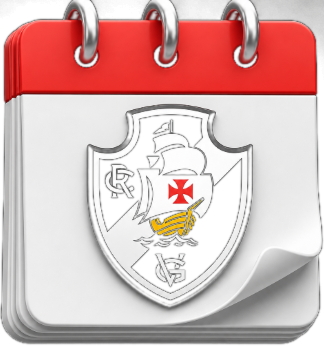
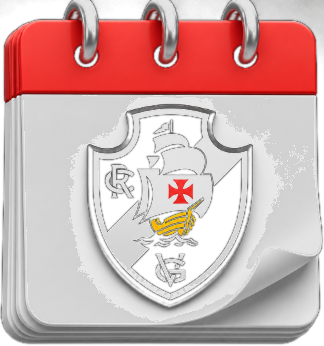
MVP/quem faz gol: restaura as fotos (confirmado que não eram o problema) e adiciona cache real de otimização — a lista de ~29 jogadores só é montada uma vez (ou quando o elenco muda), não toda vez que o seletor abre
Baixar App: remove o efeito 'girando' (usava uma técnica de máscara que pode não funcionar bem em todo aparelho) e troca por um brilho pulsante simples na borda, mais confiável em qualquer navegador

Escudo do calendário no tema claro: em vez de um fundo escuro atrás (ficava evidente/feio), editei a própria imagem — escurece só um pouco os pixels quase-brancos (90% do valor original), o suficiente pra nunca mais sumir contra fundo branco, mas sem alterar visualmente o desenho do escudo

diff --git a/index.html b/index.html
@@ -132,11 +132,8 @@ console.log('Firebase conectado ao Vasbobo ✓');
   .sino-notif.ativado{color:var(--verde);animation:none!important}
   .sino-notif.balancando{animation:sinoBalanca 1.7s ease-in-out infinite}
   @keyframes sinoBalanca{0%,100%{transform:rotate(0)}12%{transform:rotate(-16deg)}24%{transform:rotate(13deg)}36%{transform:rotate(-11deg)}48%{transform:rotate(8deg)}60%{transform:rotate(-6deg)}72%{transform:rotate(3deg)}84%{transform:rotate(-1deg)}}
-  #btnInstalarApp::before{content:"";position:absolute;inset:-2px;border-radius:9px;padding:2px;
-    background:conic-gradient(from 0deg,transparent 0%,transparent 70%,#BFE0FF 82%,#FFFFFF 88%,#BFE0FF 94%,transparent 100%);
-    -webkit-mask:linear-gradient(#000 0 0) content-box,linear-gradient(#000 0 0);-webkit-mask-composite:xor;mask-composite:exclude;
-    animation:girarBrilhoApp 2.6s linear infinite;pointer-events:none}
-  @keyframes girarBrilhoApp{to{transform:rotate(360deg)}}
+  #btnInstalarApp{animation:brilhoBordaApp 1.8s ease-in-out infinite}
+  @keyframes brilhoBordaApp{0%,100%{box-shadow:0 0 3px 0 rgba(79,166,240,.35);border-color:var(--azul)}50%{box-shadow:0 0 13px 3px rgba(79,166,240,.9);border-color:#BFE0FF}}
   h1{font-size:clamp(1.7rem,7.5vw,2.6rem);line-height:1;text-shadow:none;width:auto}
   h1 .cruz{color:var(--vermelho);font-size:.75em;vertical-align:.06em;margin-left:4px;display:inline-block;
     animation:balancarCruz 3s ease-in-out infinite}
@@ -196,7 +193,7 @@ console.log('Firebase conectado ao Vasbobo ✓');
     padding:14px 2px 11px;text-decoration:none;color:var(--cinza);font-size:.6rem;font-weight:700;
     text-transform:uppercase;letter-spacing:.01em;font-family:'Inter',sans-serif;position:relative}
   .menu-fixo a .mf-icone{font-size:1.5rem;line-height:1;display:flex;align-items:center;justify-content:center;height:30px}
-  html.tema-claro #mfCalendario .mf-icone{background:#17171B;border-radius:50%;padding:3px}
+  
   .menu-fixo a .mf-icone img{width:32px;height:32px;object-fit:contain;display:block}
   .menu-fixo a.ativo{color:var(--branco)}
   .menu-fixo a.ativo::after{content:"";position:absolute;bottom:4px;left:50%;transform:translateX(-50%);width:18px;height:3px;border-radius:99px;background:var(--azul)}
@@ -3637,22 +3634,37 @@ function selectJogadores(idSel,valorAtual,incluirSemGol,incluirTecnico){
 function botaoEscolherJogador(idCampo,valorAtual,incluirSemGol,incluirTecnico){
   const jSel=valorAtual&&valorAtual!==SEM_GOL?jogadorPorId(valorAtual):null;
   const texto=valorAtual===SEM_GOL?'Vasco não marca 😢':(jSel?((jSel.num?jSel.num+' · ':'')+jSel.nome):'— escolher —');
+  const fotoTxt=jSel?fotoJogador(jSel.id,26):'';
   return '<input type="hidden" id="'+idCampo+'" value="'+esc(valorAtual||'')+'">'+
     '<button type="button" class="btn fantasma" style="width:100%;display:flex;align-items:center;gap:8px;justify-content:flex-start;text-align:left;padding:9px 12px" '+
     'onclick="abrirEscolherJogador(\''+idCampo+'\','+(incluirSemGol?'true':'false')+','+(incluirTecnico?'true':'false')+')" id="btnEsc_'+idCampo+'">'+
-    '<span id="txtEsc_'+idCampo+'">'+esc(texto)+'</span></button>';
+    '<span id="fotoEsc_'+idCampo+'">'+fotoTxt+'</span><span id="txtEsc_'+idCampo+'">'+esc(texto)+'</span></button>';
 }
-function abrirEscolherJogador(idCampo,incluirSemGol,incluirTecnico){
-  window._escolherJogadorAlvo=idCampo;
+/* cache do HTML da lista do seletor — monta os ~29 botões (com foto) só na primeira vez, ou
+   quando o elenco mudar; nas próximas aberturas, é só reaproveitar a string pronta */
+let _cacheEscolherJogador={comTecnico:null,semTecnico:null,semGol:null,versaoElenco:null};
+function htmlListaEscolherJogador(incluirTecnico,incluirSemGol){
+  const versaoAtual=(dados.jogadores||[]).length+'_'+(dados.jogadores||[]).map(p=>p.id+p.ativo).join('');
+  if(_cacheEscolherJogador.versaoElenco!==versaoAtual){
+    _cacheEscolherJogador={versaoElenco:versaoAtual,comTecnico:null,semTecnico:null};
+  }
+  const chave=incluirTecnico?'comTecnico':'semTecnico';
+  if(_cacheEscolherJogador[chave])return _cacheEscolherJogador[chave];
   let html='';
-  if(incluirSemGol)html+='<button type="button" class="jogo-item" style="width:100%;margin-bottom:8px" onclick="selecionarJogadorModal(\''+SEM_GOL+'\')"><span class="jogo-nome">Vasco não marca 😢</span></button>';
   let posAtual='';
   jogadoresAtivos().filter(p=>incluirTecnico||p.pos!=='Técnico').forEach(p=>{
     if(p.pos!==posAtual){posAtual=p.pos;html+='<div class="pos-titulo" style="margin-top:10px">'+esc(p.pos)+'s</div>';}
     html+='<button type="button" class="jogo-item" style="width:100%;display:flex;align-items:center;gap:10px;margin-bottom:6px" onclick="selecionarJogadorModal(\''+p.id+'\')">'+
-      '<span class="jog-num" style="width:26px;text-align:center;flex:none">'+(p.num||'–')+'</span><span class="jogo-nome" style="font-size:.88rem">'+esc(p.nome)+'</span></button>';
+      fotoJogador(p.id,32)+'<span class="jogo-nome" style="font-size:.88rem">'+(p.num?p.num+' · ':'')+esc(p.nome)+'</span></button>';
   });
-  document.getElementById('corpoEscolherJogador').innerHTML=html||'<div class="vazio">Ninguém no elenco ainda.</div>';
+  _cacheEscolherJogador[chave]=html;
+  return html;
+}
+function abrirEscolherJogador(idCampo,incluirSemGol,incluirTecnico){
+  window._escolherJogadorAlvo=idCampo;
+  const semGolHtml=incluirSemGol?'<button type="button" class="jogo-item" style="width:100%;margin-bottom:8px" onclick="selecionarJogadorModal(\''+SEM_GOL+'\')"><span class="jogo-nome">Vasco não marca 😢</span></button>':'';
+  const lista=htmlListaEscolherJogador(incluirTecnico,incluirSemGol);
+  document.getElementById('corpoEscolherJogador').innerHTML=(semGolHtml+lista)||'<div class="vazio">Ninguém no elenco ainda.</div>';
   document.getElementById('modalEscolherJogador').classList.remove('oculto');
 }
 function fecharEscolherJogador(){document.getElementById('modalEscolherJogador').classList.add('oculto');}
@@ -3662,6 +3674,7 @@ function selecionarJogadorModal(id){
   document.getElementById(idCampo).value=id;
   const jSel=id!==SEM_GOL?jogadorPorId(id):null;
   document.getElementById('txtEsc_'+idCampo).textContent=id===SEM_GOL?'Vasco não marca 😢':(jSel?((jSel.num?jSel.num+' · ':'')+jSel.nome):'— escolher —');
+  document.getElementById('fotoEsc_'+idCampo).innerHTML=jSel?fotoJogador(jSel.id,26):'';
   fecharEscolherJogador();
 }
 

diff --git a/hoje.html b/hoje.html
@@ -267,7 +267,7 @@ body{min-height:100vh;color:var(--branco);font-family:'Inter',sans-serif;-webkit
     padding:14px 2px 11px;text-decoration:none;color:var(--cinza);font-size:.6rem;font-weight:700;
     text-transform:uppercase;letter-spacing:.01em;font-family:'Inter',sans-serif;position:relative}
   .menu-fixo a .mf-icone{font-size:1.5rem;line-height:1;display:flex;align-items:center;justify-content:center;height:30px}
-html.tema-claro #mfCalendario .mf-icone{background:#17171B;border-radius:50%;padding:3px}
+
   .menu-fixo a .mf-icone img{width:32px;height:32px;object-fit:contain;display:block}
   .menu-fixo a.ativo{color:var(--branco)}
   .menu-fixo a.ativo::after{content:"";position:absolute;bottom:4px;left:50%;transform:translateX(-50%);width:18px;height:3px;border-radius:99px;background:var(--azul)}
@@ -275,11 +275,8 @@ html.tema-claro #mfCalendario .mf-icone{background:#17171B;border-radius:50%;pad
   .menu-fixo a .mf-sinal{position:absolute;top:9px;right:calc(50% - 24px);width:8px;height:8px;border-radius:50%;background:var(--vermelho);border:1.5px solid var(--carvao)}
   .bar-teste{max-width:1320px;margin:10px auto 0;padding:0 20px}
   .bar-teste div{background:rgba(217,174,78,.1);border:1px solid var(--ouro);color:var(--ouro);border-radius:9px;padding:8px 14px;font-size:.78rem}
-#btnInstalarApp::before{content:"";position:absolute;inset:-2px;border-radius:9px;padding:2px;
-  background:conic-gradient(from 0deg,transparent 0%,transparent 70%,#BFE0FF 82%,#FFFFFF 88%,#BFE0FF 94%,transparent 100%);
-  -webkit-mask:linear-gradient(#000 0 0) content-box,linear-gradient(#000 0 0);-webkit-mask-composite:xor;mask-composite:exclude;
-  animation:girarBrilhoApp 2.6s linear infinite;pointer-events:none}
-@keyframes girarBrilhoApp{to{transform:rotate(360deg)}}
+#btnInstalarApp{animation:brilhoBordaApp 1.8s ease-in-out infinite}
+@keyframes brilhoBordaApp{0%,100%{box-shadow:0 0 3px 0 rgba(79,166,240,.35);border-color:var(--azul)}50%{box-shadow:0 0 13px 3px rgba(79,166,240,.9);border-color:#BFE0FF}}
 .comp-tabs{display:flex;gap:8px;flex-wrap:wrap}
 .comp-tab{background:rgba(255,255,255,.06);border:1px solid var(--linha);color:var(--branco);border-radius:8px;
   padding:8px 14px;font-size:.78rem;font-weight:700;letter-spacing:.03em;text-transform:uppercase;

diff --git a/galeria.html b/galeria.html
@@ -242,7 +242,7 @@ body{min-height:100vh;color:var(--branco);font-family:'Inter',sans-serif;-webkit
     padding:14px 2px 11px;text-decoration:none;color:var(--cinza);font-size:.6rem;font-weight:700;
     text-transform:uppercase;letter-spacing:.01em;font-family:'Inter',sans-serif;position:relative}
   .menu-fixo a .mf-icone{font-size:1.5rem;line-height:1;display:flex;align-items:center;justify-content:center;height:30px}
-html.tema-claro #mfCalendario .mf-icone{background:#17171B;border-radius:50%;padding:3px}
+
   .menu-fixo a .mf-icone img{width:32px;height:32px;object-fit:contain;display:block}
   .menu-fixo a.ativo{color:var(--branco)}
   .menu-fixo a.ativo::after{content:"";position:absolute;bottom:4px;left:50%;transform:translateX(-50%);width:18px;height:3px;border-radius:99px;background:var(--azul)}
@@ -250,11 +250,8 @@ html.tema-claro #mfCalendario .mf-icone{background:#17171B;border-radius:50%;pad
   .menu-fixo a .mf-sinal{position:absolute;top:9px;right:calc(50% - 24px);width:8px;height:8px;border-radius:50%;background:var(--vermelho);border:1.5px solid var(--carvao)}
   .bar-teste{max-width:1320px;margin:10px auto 0;padding:0 20px}
   .bar-teste div{background:rgba(217,174,78,.1);border:1px solid var(--ouro);color:var(--ouro);border-radius:9px;padding:8px 14px;font-size:.78rem}
-#btnInstalarApp::before{content:"";position:absolute;inset:-2px;border-radius:9px;padding:2px;
-  background:conic-gradient(from 0deg,transparent 0%,transparent 70%,#BFE0FF 82%,#FFFFFF 88%,#BFE0FF 94%,transparent 100%);
-  -webkit-mask:linear-gradient(#000 0 0) content-box,linear-gradient(#000 0 0);-webkit-mask-composite:xor;mask-composite:exclude;
-  animation:girarBrilhoApp 2.6s linear infinite;pointer-events:none}
-@keyframes girarBrilhoApp{to{transform:rotate(360deg)}}
+#btnInstalarApp{animation:brilhoBordaApp 1.8s ease-in-out infinite}
+@keyframes brilhoBordaApp{0%,100%{box-shadow:0 0 3px 0 rgba(79,166,240,.35);border-color:var(--azul)}50%{box-shadow:0 0 13px 3px rgba(79,166,240,.9);border-color:#BFE0FF}}
 .fq-veu{position:fixed;inset:0;background:rgba(0,0,0,.88);display:flex;align-items:center;justify-content:center;padding:20px;z-index:1000}
 .fq-veu.oculto{display:none}
 .fq-modal{background:#0B0B0E;border:1px solid rgba(255,255,255,.16);

diff --git a/ogrupo.html b/ogrupo.html
@@ -275,7 +275,7 @@ body{min-height:100vh;color:var(--branco);font-family:'Inter',sans-serif;-webkit
     padding:14px 2px 11px;text-decoration:none;color:var(--cinza);font-size:.6rem;font-weight:700;
     text-transform:uppercase;letter-spacing:.01em;font-family:'Inter',sans-serif;position:relative}
   .menu-fixo a .mf-icone{font-size:1.5rem;line-height:1;display:flex;align-items:center;justify-content:center;height:30px}
-html.tema-claro #mfCalendario .mf-icone{background:#17171B;border-radius:50%;padding:3px}
+
   .menu-fixo a .mf-icone img{width:32px;height:32px;object-fit:contain;display:block}
   .menu-fixo a.ativo{color:var(--branco)}
   .menu-fixo a.ativo::after{content:"";position:absolute;bottom:4px;left:50%;transform:translateX(-50%);width:18px;height:3px;border-radius:99px;background:var(--azul)}
@@ -283,11 +283,8 @@ html.tema-claro #mfCalendario .mf-icone{background:#17171B;border-radius:50%;pad
   .menu-fixo a .mf-sinal{position:absolute;top:9px;right:calc(50% - 24px);width:8px;height:8px;border-radius:50%;background:var(--vermelho);border:1.5px solid var(--carvao)}
   .bar-teste{max-width:1320px;margin:10px auto 0;padding:0 20px}
   .bar-teste div{background:rgba(217,174,78,.1);border:1px solid var(--ouro);color:var(--ouro);border-radius:9px;padding:8px 14px;font-size:.78rem}
-#btnInstalarApp::before{content:"";position:absolute;inset:-2px;border-radius:9px;padding:2px;
-  background:conic-gradient(from 0deg,transparent 0%,transparent 70%,#BFE0FF 82%,#FFFFFF 88%,#BFE0FF 94%,transparent 100%);
-  -webkit-mask:linear-gradient(#000 0 0) content-box,linear-gradient(#000 0 0);-webkit-mask-composite:xor;mask-composite:exclude;
-  animation:girarBrilhoApp 2.6s linear infinite;pointer-events:none}
-@keyframes girarBrilhoApp{to{transform:rotate(360deg)}}
+#btnInstalarApp{animation:brilhoBordaApp 1.8s ease-in-out infinite}
+@keyframes brilhoBordaApp{0%,100%{box-shadow:0 0 3px 0 rgba(79,166,240,.35);border-color:var(--azul)}50%{box-shadow:0 0 13px 3px rgba(79,166,240,.9);border-color:#BFE0FF}}
 .fq-veu{position:fixed;inset:0;background:rgba(0,0,0,.88);display:flex;align-items:center;justify-content:center;padding:20px;z-index:1000}
 .fq-veu.oculto{display:none}
 .fq-modal{background:#0B0B0E;border:1px solid rgba(255,255,255,.16);

diff --git a/futebol.html b/futebol.html
@@ -232,7 +232,7 @@ body{min-height:100vh;color:var(--branco);font-family:'Inter',sans-serif;-webkit
     padding:14px 2px 11px;text-decoration:none;color:var(--cinza);font-size:.6rem;font-weight:700;
     text-transform:uppercase;letter-spacing:.01em;font-family:'Inter',sans-serif;position:relative}
   .menu-fixo a .mf-icone{font-size:1.5rem;line-height:1;display:flex;align-items:center;justify-content:center;height:30px}
-html.tema-claro #mfCalendario .mf-icone{background:#17171B;border-radius:50%;padding:3px}
+
   .menu-fixo a .mf-icone img{width:32px;height:32px;object-fit:contain;display:block}
   .menu-fixo a.ativo{color:var(--branco)}
   .menu-fixo a.ativo::after{content:"";position:absolute;bottom:4px;left:50%;transform:translateX(-50%);width:18px;height:3px;border-radius:99px;background:var(--azul)}
@@ -240,11 +240,8 @@ html.tema-claro #mfCalendario .mf-icone{background:#17171B;border-radius:50%;pad
   .menu-fixo a .mf-sinal{position:absolute;top:9px;right:calc(50% - 24px);width:8px;height:8px;border-radius:50%;background:var(--vermelho);border:1.5px solid var(--carvao)}
   .bar-teste{max-width:1320px;margin:10px auto 0;padding:0 20px}
   .bar-teste div{background:rgba(217,174,78,.1);border:1px solid var(--ouro);color:var(--ouro);border-radius:9px;padding:8px 14px;font-size:.78rem}
-#btnInstalarApp::before{content:"";position:absolute;inset:-2px;border-radius:9px;padding:2px;
-  background:conic-gradient(from 0deg,transparent 0%,transparent 70%,#BFE0FF 82%,#FFFFFF 88%,#BFE0FF 94%,transparent 100%);
-  -webkit-mask:linear-gradient(#000 0 0) content-box,linear-gradient(#000 0 0);-webkit-mask-composite:xor;mask-composite:exclude;
-  animation:girarBrilhoApp 2.6s linear infinite;pointer-events:none}
-@keyframes girarBrilhoApp{to{transform:rotate(360deg)}}
+#btnInstalarApp{animation:brilhoBordaApp 1.8s ease-in-out infinite}
+@keyframes brilhoBordaApp{0%,100%{box-shadow:0 0 3px 0 rgba(79,166,240,.35);border-color:var(--azul)}50%{box-shadow:0 0 13px 3px rgba(79,166,240,.9);border-color:#BFE0FF}}
 @media(max-width:480px){
   .bobo{width:62px;height:62px;border-radius:11px}
   .header-inner{gap:6px}
